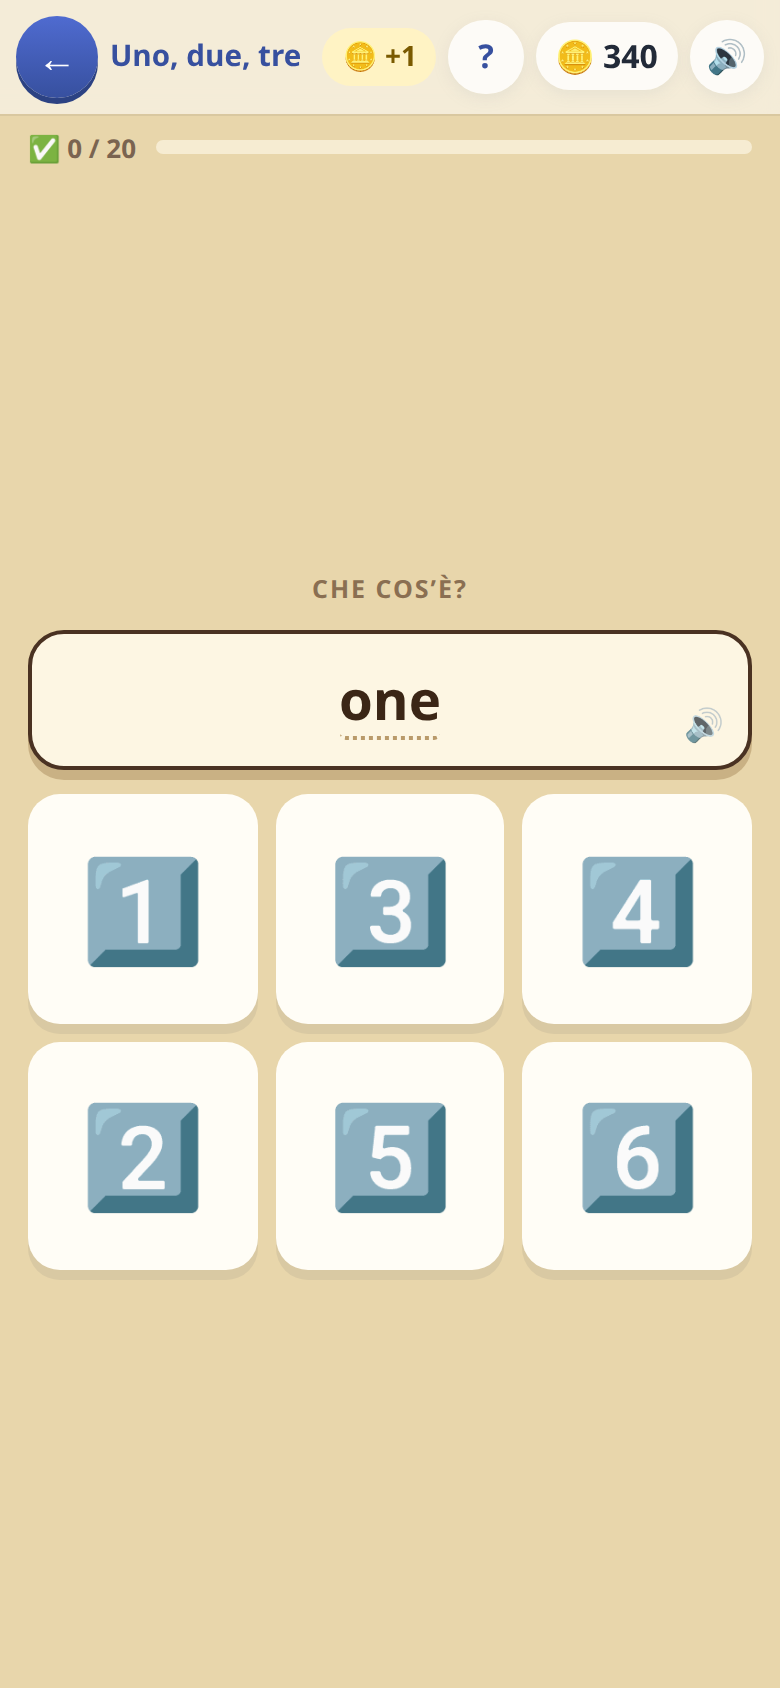
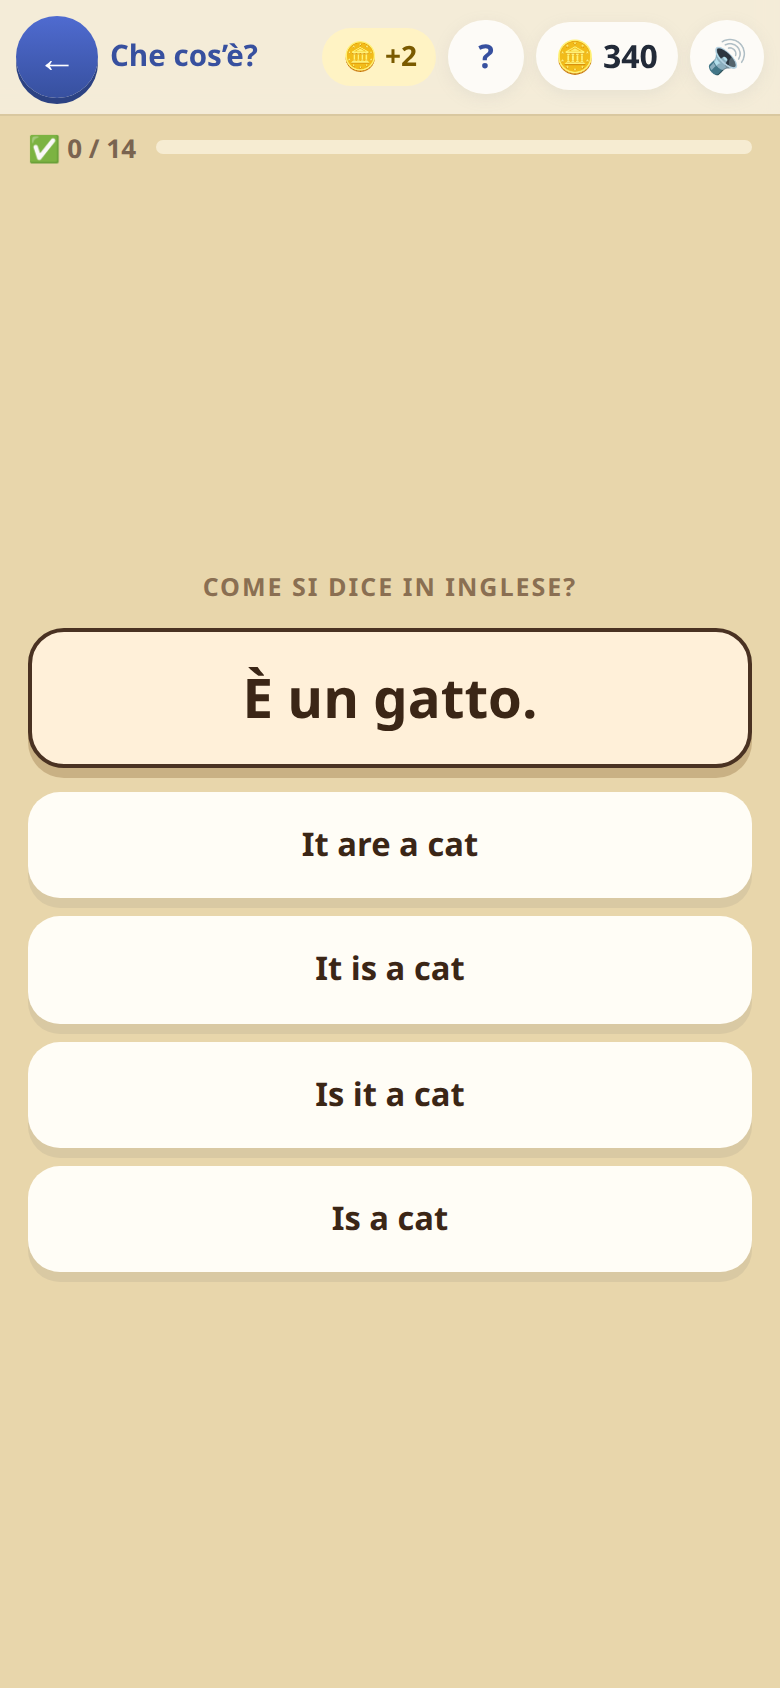
Scatti: l'inglese coi mondi, la nave che naviga e le frasi composte a tocchi

Changed region(s): [[0.0308, 0.3389, 0.9846, 0.7701], [0.1231, 0.0308, 0.3692, 0.0924], [0.9231, 0.3697, 0.9538, 0.4005]]

diff --git a/docs/lingue/presentazione.md b/docs/lingue/presentazione.md
@@ -9,17 +9,18 @@ spagnolo è ancora la campagna in fila di prima, e ci arriverà.
 
 ## L'inglese: la mappa del tesoro
 
-Ogni isola della mappa è un **mondo** che insegna un pezzo di grammatica —
-*che cos'è*, *io e le mie cose*, poi *dove*, *cosa sai fare*, la giornata,
-il presente, il passato — e finire un mondo apre i successivi. Una
-caravella segna dove si è arrivati, e toccata una tappa ci naviga, girando
-attorno alle isole. Ogni tappa
-porta **otto-dieci parole nuove e una struttura**, e le frasi non si
-scelgono soltanto: da un certo punto **si compongono**, toccando le parole
-una dopo l'altra, prima coi buchi da riempire, poi tutte da mettere in
-ordine, poi con qualche parola trappola in mezzo. Chi sbaglia legge il
-perché («*is it* va girato per chiedere») e come si fa, e va avanti: non
-si perde niente.
+Ogni isola della mappa è **un anno di scuola**, dalla prima alla quinta, coi
+contenuti che i libri fanno davvero in quell'anno; finire un'isola apre la
+successiva, e quelle degli anni già fatti a scuola sono aperte da subito.
+Una caravella segna dove si è arrivati, e toccata una tappa ci naviga,
+girando attorno alle isole. Su ogni isola si alternano **tappe di parole**
+(otto-dieci parole di un argomento solo: i colori, il cibo, la casa) e
+**tappe di frasi**, che usano solo parole già viste e insegnano una
+struttura (*it is / is it*, *I like*, *there is*, *I can*). Le frasi prima
+si riconoscono, poi **si compongono** toccando le parole: prima coi buchi da
+riempire, poi tutte da mettere in ordine, poi con parole trappola in mezzo
+(*am / is / are*, *my / your*). Chi sbaglia legge il perché («*is it* va
+girato per chiedere») e come si fa, e va avanti: non si perde niente.
 
 Attorno a ogni tappa dieci tacche dicono **quanto è imparata**, e col tempo
 calano: il disegno della tappa sbiadisce, e rigiocarla la fa tornare piena.
